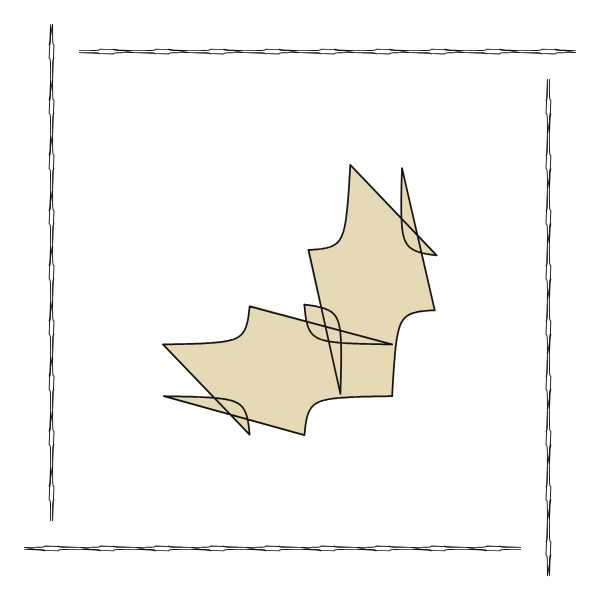
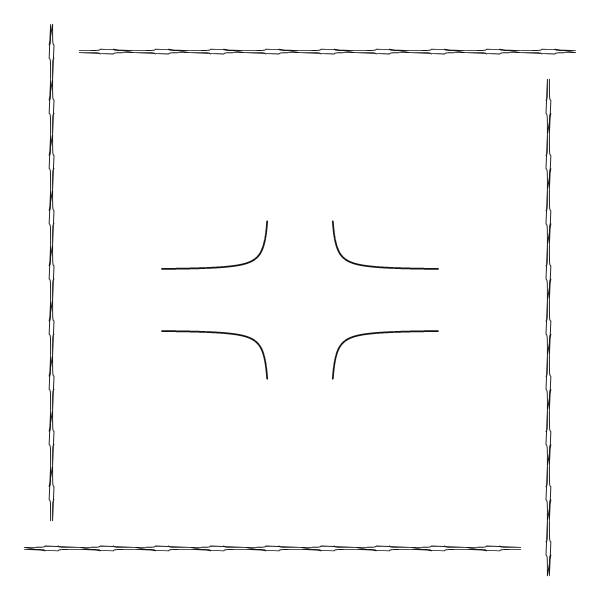
figures: a branch record is drawn as branches, never as one filled blob
c-0416's four arms looked to the figure code like spine plus two rails, so the
jump between them was filled (the amber blob) and the astroid was mirrored into
a leaf. The figure now asks PLATE.branchesOf, scales the set about its common
centre (not each arm on its own) and fills nothing central. Both figures
regenerated and looked at.

Also register row 61 and BranchDrawTest; bordered.js imports the .ts registry
dynamically so the figure functions import under plain Node for the test.

Changed region(s): [[0.27, 0.27, 0.75, 0.75], [0.27, 0.42, 0.42, 0.45], [0.42, 0.36, 0.45, 0.42]]

diff --git a/app/src/lib/bordered.js b/app/src/lib/bordered.js
@@ -13,7 +13,6 @@
 import { statSync } from "node:fs";
 import path from "node:path";
 import { createRequire } from "node:module";
-import { loadRegistry } from "./registry.ts";
 
 import { repoRoot } from "./gallery.js";
 
@@ -163,9 +162,20 @@ function frameBorder(record, perSide, turn = 0) {
 // the note turns the character offsets on.
 function centralPaths(record, rotation) {
   if (record.offsets && record.speedX && record.speedY) {
-    return P.group(record).paths.map((path) => rotatePoints(path, rotation));
+    return {
+      paths: P.group(record).paths.map((path) => rotatePoints(path, rotation)),
+      offset: true,
+      branched: false,
+    };
   }
-  return [rotatePoints(pointsOf(record), rotation)];
+  // A multi-branch record is already whole (c-0416's four arms). Drawn as one path its jumps
+  // become chords and fill as a blob, so every branch is its own path here.
+  const branches = P.branchesOf ? P.branchesOf(record) : [pointsOf(record)];
+  return {
+    paths: branches.map((path) => rotatePoints(path, rotation)),
+    offset: false,
+    branched: branches.length > 1,
+  };
 }
 
 function marginPercent(border, central) {
@@ -214,47 +224,71 @@ export function figureFor(record, all, borderRecord) {
     let centralCount;
     let fills;
     if (pieces === 1) {
-      // The leaf: the curve and its mirror across the chord through its feet.
-      // With offsets on, each half is the rail band, not the spine.
-      const half = centralPaths(record, rotation);
-      const mirror = half.map((path) => reflectAcrossChord(path));
-      const halves = [half, mirror];
-      const bands = [];
-      if (half.length >= 3) {
-        const band = [...half[1], ...half[2].slice().reverse()];
-        band.push(band[0]);
-        const mirrorBand = [...mirror[1], ...mirror[2].slice().reverse()];
-        mirrorBand.push(mirrorBand[0]);
-        bands.push(band, mirrorBand);
+      const centralInfo = centralPaths(record, rotation);
+      const half = centralInfo.paths;
+      if (centralInfo.branched) {
+        // branches are already whole: scale the set about its common centre, no mirror, no
+        // fill. (Centring each branch on its own box would pile the arms on one point.)
+        const target = CENTRAL_SHARE * (fbox[2] - fbox[0]);
+        const bbox0 = P.bbox(half.flat());
+        const size0 = Math.max(bbox0[2] - bbox0[0], bbox0[3] - bbox0[1]) || 1;
+        const scale0 = target / size0;
+        const mx = (bbox0[0] + bbox0[2]) / 2;
+        const my = (bbox0[1] + bbox0[3]) / 2;
+        central = half.map((path) =>
+          path.map(([x, y]) => [(x - mx) * scale0 + cx, (y - my) * scale0 + cy]));
+        centralCount = central.length;
+        fills = [...borderFills];
       } else {
-        const leaf = [...half[0], ...mirror[0].slice().reverse()];
-        leaf.push(leaf[0]);
-        bands.push(leaf);
+        const mirror = half.map((path) => reflectAcrossChord(path));
+        const halves = [half, mirror];
+        const bands = [];
+        if (half.length >= 3) {
+          const band = [...half[1], ...half[2].slice().reverse()];
+          band.push(band[0]);
+          const mirrorBand = [...mirror[1], ...mirror[2].slice().reverse()];
+          mirrorBand.push(mirrorBand[0]);
+          bands.push(band, mirrorBand);
+        } else {
+          const leaf = [...half[0], ...mirror[0].slice().reverse()];
+          leaf.push(leaf[0]);
+          bands.push(leaf);
+        }
+        const all = halves.flat();
+        const pairBox = P.bbox(all.flat());
+        const size = Math.max(pairBox[2] - pairBox[0], pairBox[3] - pairBox[1]) || 1;
+        const target = CENTRAL_SHARE * (fbox[2] - fbox[0]);
+        const scale = target / size;
+        const scaledHalves = halves.map((h) => h.map((p) => scaleAbout(p, scale)));
+        const scaledBands = bands.map((b) => scaleAbout(b, scale));
+        const box = P.bbox(scaledHalves.flat().flat());
+        const dx = cx - (box[0] + box[2]) / 2;
+        const dy = cy - (box[1] + box[3]) / 2;
+        const movedHalves = scaledHalves.map((h) => h.map((p) => p.map(([x, y]) => [x + dx, y + dy])));
+        const movedBands = scaledBands.map((b) => b.map(([x, y]) => [x + dx, y + dy]));
+        central = movedHalves.flat();
+        centralCount = movedHalves.length;
+        fills = [...movedBands, ...borderFills];
       }
-      const all = halves.flat();
-      const pairBox = P.bbox(all.flat());
-      const size = Math.max(pairBox[2] - pairBox[0], pairBox[3] - pairBox[1]) || 1;
-      const target = CENTRAL_SHARE * (fbox[2] - fbox[0]);
-      const scale = target / size;
-      const scaledHalves = halves.map((h) => h.map((p) => scaleAbout(p, scale)));
-      const scaledBands = bands.map((b) => scaleAbout(b, scale));
-      const box = P.bbox(scaledHalves.flat().flat());
-      const dx = cx - (box[0] + box[2]) / 2;
-      const dy = cy - (box[1] + box[3]) / 2;
-      const movedHalves = scaledHalves.map((h) => h.map((p) => p.map(([x, y]) => [x + dx, y + dy])));
-      const movedBands = scaledBands.map((b) => b.map(([x, y]) => [x + dx, y + dy]));
-      central = movedHalves.flat();
-      centralCount = movedHalves.length;
-      fills = [...movedBands, ...borderFills];
     } else {
-      const inner = rotatePoints(pointsOf(record), rotation);
-      const ibox = P.bbox(inner);
+      const centralInfo = centralPaths(record, rotation);
+      const innerPaths = centralInfo.paths;
+      const ibox = P.bbox(innerPaths.flat());
       const size = Math.max(ibox[2] - ibox[0], ibox[3] - ibox[1]) || 1;
       const target = CENTRAL_SHARE * (fbox[2] - fbox[0]);
-      central = mirroredPieces(scaleAbout(inner, target / size), pieces)
-        .map((line) => moveToCentre(line, cx, cy));
-      centralCount = central.length;
-      fills = borderFills;
+      if (centralInfo.branched) {
+        // pieces of a branched record stay branches: tile nothing, draw the set once
+        central = innerPaths.map((path) =>
+          path.map(([x, y]) => [(x - (ibox[0] + ibox[2]) / 2) * (target / size) + cx,
+            (y - (ibox[1] + ibox[3]) / 2) * (target / size) + cy]));
+        centralCount = central.length;
+        fills = [...borderFills];
+      } else {
+        central = mirroredPieces(scaleAbout(innerPaths[0], target / size), pieces)
+          .map((line) => moveToCentre(line, cx, cy));
+        centralCount = central.length;
+        fills = borderFills;
+      }
     }
     const margin = marginPercent(border, central);
     return {
@@ -357,6 +391,10 @@ export async function buildIlluminations(root) {
   const base = root || repoRoot();
   const stamp = dataStamp(base);
   if (cache && cache.base === base && cache.stamp === stamp) return cache;
+  // the database-backed registry is loaded here, not at import: figureFor and the SVG writers
+  // are pure and must import under plain Node (the tests do), and a static .ts import blocked
+  // that with ERR_UNKNOWN_FILE_EXTENSION.
+  const { loadRegistry } = await import("./registry.ts");
   const registry = (await loadRegistry(base)).curves;
   const rows = Object.fromEntries(registry.map((record) => [record.name, record]));
   const byUid = Object.fromEntries(registry.map((record) => [record.uid, record]));

diff --git a/tests/test_regressions.py b/tests/test_regressions.py
@@ -213,6 +213,27 @@ class PlateRailCrossingTest(unittest.TestCase):
         self.assertEqual(run.returncode, 0, run.stdout + run.stderr)
 
 
+class BranchDrawTest(unittest.TestCase):
+    """2026-11-23: "the multi-branch records c-0416 (cruciform) and c-0418 (absx-gerono) draw as
+    fragments."
+
+    Two faults, one rule. The tune page joined c-0416's four arms with chords, and the figure
+    page read them as spine + two rails and filled the jump as a blob. `PLATE.branchesOf` is the
+    one rule: stored branches first, else a path splits on a jump over a quarter of its size.
+    """
+
+    def test_a_branch_record_is_drawn_as_branches(self):
+        node = shutil.which("node")
+        if node is None:
+            self.skipTest("node is not on PATH")
+        for name in ("plate-branches.test.mjs", "figure-branches.test.mjs"):
+            run = subprocess.run(
+                [node, "--test", str(ROOT / "tests" / "js" / name)],
+                capture_output=True, text=True, cwd=ROOT,
+            )
+            self.assertEqual(run.returncode, 0, run.stdout + run.stderr)
+
+
 class OrnamentWriterTest(unittest.TestCase):
     """2026-11-22, the operator: "i cant see how many curves to do because the page
     keeps refreshing constantly."

diff --git a/state/REGRESSIONS-int.md b/state/REGRESSIONS-int.md
@@ -123,4 +123,5 @@ spine, the fit is under tolerance, and the cap name is not double-prefixed.
 | 58 | 2026-11-22 | "i cant see how many curves to do because the page keeps refreshing constantly": the launch agent re-ran `npm run dev` every ten seconds; it failed on Node 22, but its `predev` step still ran the ornament writer, which **deleted the folder and rewrote all 371 SVGs** each time, and the dev server watches that folder | `tests/test_regressions.py` (`OrnamentWriterTest`: an unchanged file keeps its inode and mtime; the writer does not wipe its folder) running `tests/js/write-if-changed.test.mjs` | the ornament writer touches only files whose bytes change, so a restart or a re-run cannot reload the operator's page |
 | 59 | 2026-11-22 | "half are too thin and half are too thick ... check the thickness": the plate preset was a fixed number, so a curve the fold guard bound drew a hairline (0.4 %) and a curve it did not drew a slab (9 %), with nothing measuring the result. The first fix broke the band at each sharp turn; the operator corrected it ("it breaks too many places") | `tests/js/plate-gap.test.mjs` (no preset plate is thicker than the target; the operator's good curves c-0001a and c-0161 match it; a folded rail is reported, and its crossing is the cut point) run by `tests/test_regressions.py` (`PlateGapTest`) | **Amended 2026-11-23:** the band is not cut any more — the preset is still a measured 1 % drawn gap on unedited curves, and a fold is a dotted crossing with a hidden span (row 60) |
 | 60 | 2026-11-23 | "letting each rail cross itself at a tight turn, marking every crossing with a red dot, hiding the small loop as an invisible span, and recording the spans in `book/print/rail-holes.json`" — the inside cap and the roundSpikes bevel replaced the rail the operator asked for with a shorter, rounded one, and the crossing the cut has to use was invisible | `tests/js/plate-holes.test.mjs` (c-0046, c-0065 and c-0273 each draw a rail that crosses itself; the loop is a span under 35 % of the rail; the dots drawn in the SVG equal the crossings recorded in `rail-holes.json`), run by `tests/test_regressions.py` (`PlateRailCrossingTest`); `tests/js/plate-guard.test.mjs` and `plate-gap.test.mjs` amended to the new law | one character law (no cap, no smoothed normal); the hidden span is the loop between two passes and never the long way round; a partial `--only` run merges the two indexes instead of replacing them (register 37) |
+| 61 | 2026-11-23 | "the multi-branch records c-0416 (cruciform) and c-0418 (absx-gerono) draw as fragments" — and on the figures page the jump between the arms filled as one blob, because four branches look to the code like "spine + two rails" | `tests/js/plate-branches.test.mjs` (c-0416 splits into four; no branch carries the jump; the points are the stored ones) and `tests/js/figure-branches.test.mjs` (four arms, each with no step over a quarter of the figure, their centres apart; the single-path leaf unchanged), run by `BranchDrawTest` | one rule for a branch — `PLATE.branchesOf`: stored branches first, else split a path on a jump over a quarter of its size; every drawing and the figure generator ask it |
 | 57 | 2026-11-23 | the reduction index claimed 173 over-ceiling curves — a population 63 too large — and the very first desk session printed c-0260 as "degree 25": both used the formula 2·(trimmed length) + 1 for the position degree, where the row length is speed degree + 1, so the true formula is 2·(length − 1) + 1 = 2·length − 1 — always two too high, which moved every degree-9 curve (position 11) into the over-limit set | the gallery card's own arithmetic (`2·speed+1` with speed = trimmed length − 1, `app/src/pages/reduce/index.astro`) and the census threshold (`speed > 5` ⇔ position > 11, 110 curves); the degrees printed on the desk come from the POLYNOMIAL length, not the formula, so the desk was never affected — cross-checked against it | a degree is read as 2·speed+1 with speed = trimmed length − 1; the two independent counts (index, census) must agree, and 110 is the checked number |
